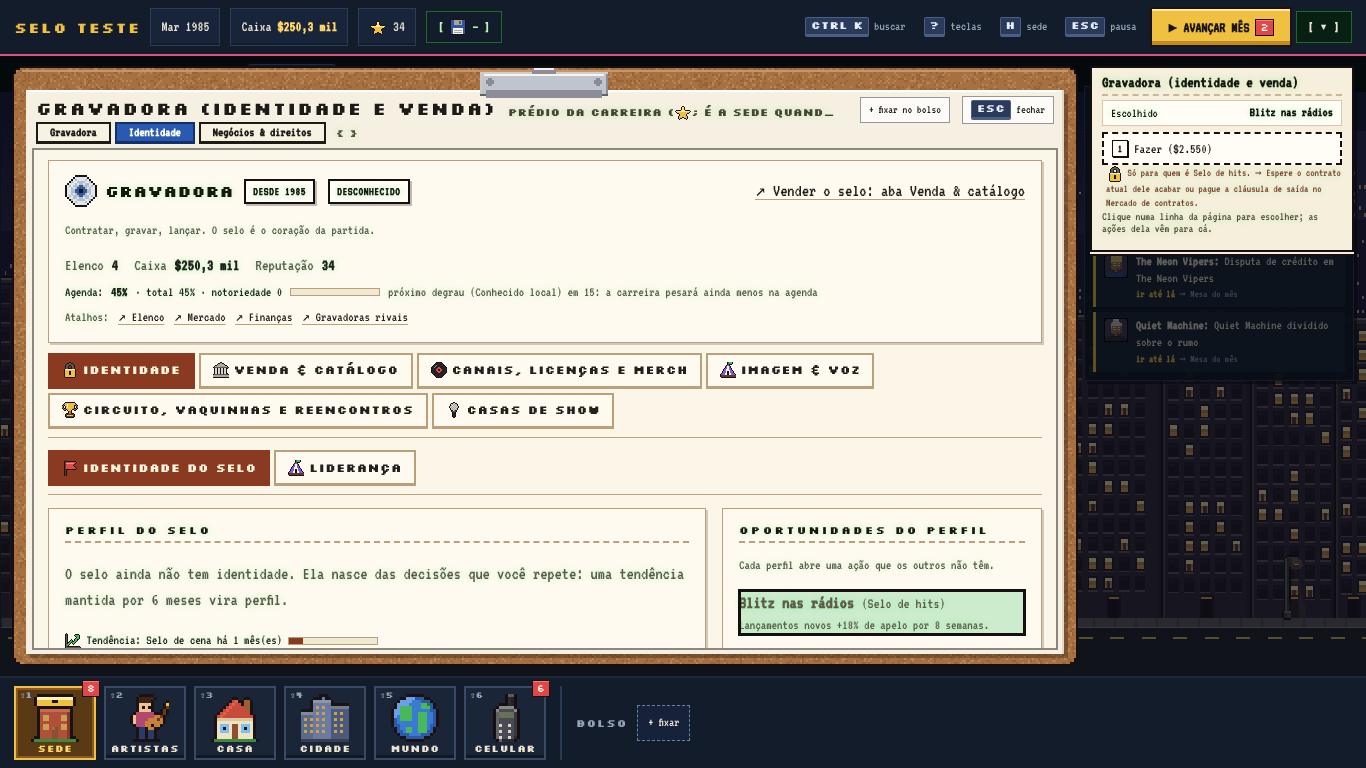
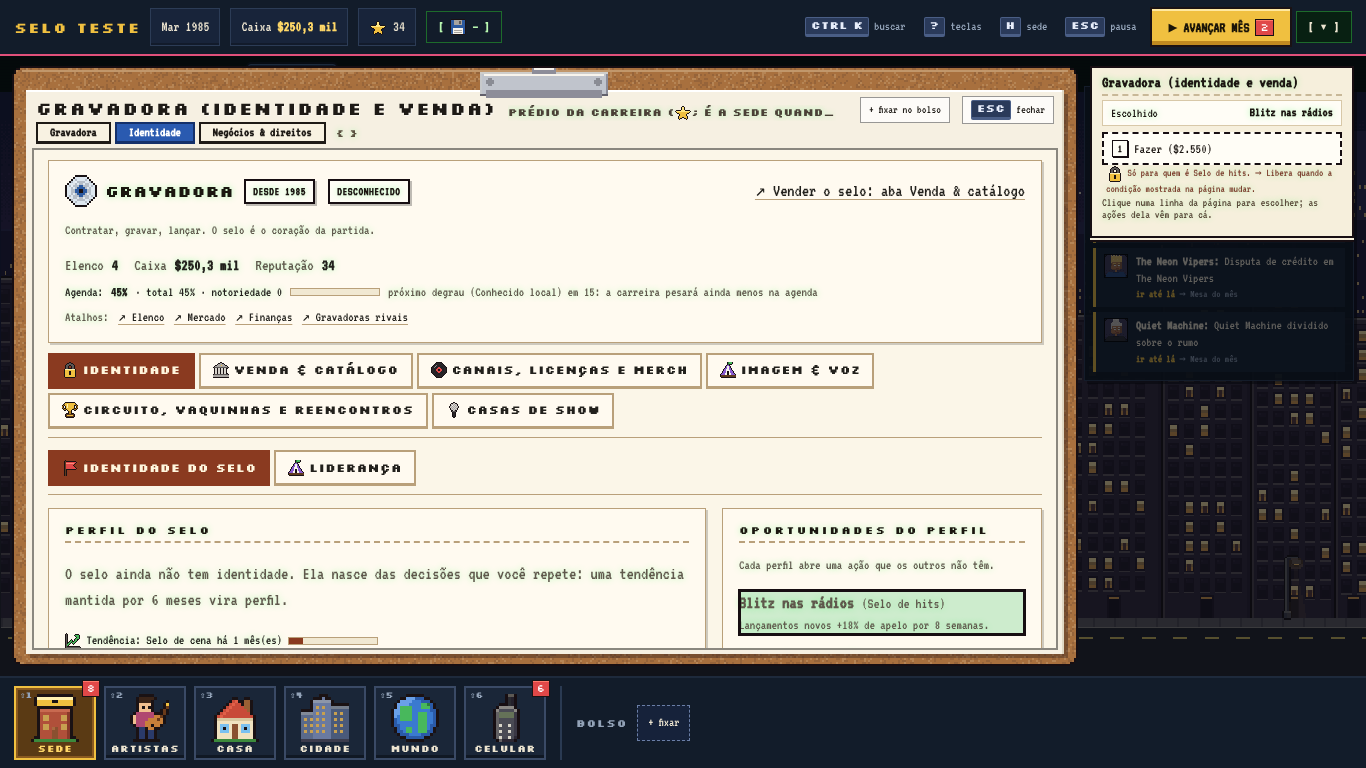
feat(r33 fichas-b): cartão e menus acompanham o tamanho do texto; pausa/teclas sem invadir a doca; registro e prints
Letras do cartão, menus, pausa/teclas, painéis e Arrumar em rem (90–130%); o cartão ao lado do papel alarga na mesma
proporção. Painel do bairro sem estouro a 130% (título quebra, cabeçalho dobra). Pausa/teclas com altura limitada e
papel rolando por dentro. DECISOES.md e INVENTARIO.md atualizados; prints antes/depois em docs/r33/fichas/b
(1366 e 1912, PT e EN, texto 130%).

Claude-Session: https://claude.ai/code/session_018LKm6vzPAhNK7XWzRuSqqE

Changed region(s): [[0.7994, 0.2188, 1.0, 0.3438]]

diff --git a/src/ui/r33/cartao33.css b/src/ui/r33/cartao33.css
@@ -156,3 +156,32 @@ body:has(.app5) :is(.am20-head, .cx27-head)::after { content: 'Esc'; position: a
 .tour18-bub { --panel: #fbf6e8; --ink: #1c1612; --muted: #5f584c; --line: #c8b898; color-scheme: light; background: #fbf6e8 !important; color: #1c1612 !important; border: 2px solid #170e12 !important; border-radius: 0 !important; box-shadow: 4px 4px 0 rgba(0, 0, 0, 0.5) !important; }
 .tour18-bub :is(b, h3, h4, strong):first-child { display: inline-block; align-self: flex-start; padding: 2px 8px; border: 2px solid #170e12; background: #fffdf6; font: 700 12px/1.2 var(--pixel, monospace); letter-spacing: 0.1em; text-transform: uppercase; }
 .tour18-bub .btn { border-radius: 0 !important; border: 2px solid #170e12 !important; box-shadow: 2px 2px 0 rgba(0, 0, 0, 0.4); }
+
+/* ==== tamanho do texto (Opções: 90–130%, no font-size da raiz): o cartão em papel acompanha (rem no lugar de px) ==== */
+.ac5.ac5-in33 { font-size: 0.8125rem; }
+.ac5.ac5-in33 .ac5-h b { font-size: 1rem; }
+.ac5.ac5-in33 .ac5-a { font-size: 0.875rem; }
+.ac5.ac5-in33 .ac5-n { font-size: 0.6875rem; line-height: 1.35; }
+.ac5.ac5-in33 .ac5-t { font-size: 0.75rem; }
+.ac5.ac5-in33 .lk31-why { font-size: 0.6875rem; }
+:is(.ob33-col, .pz5-sheet) .ac5.ac5-in33 .ac5-nums li b { font-size: 0.8125rem; }
+.ac5.ac5-in33 .ac5-nums li span { font-size: 0.75rem; }
+.pz5-sheet .pz5-row { font-size: 0.8125rem; }
+.pz5-sheet .pz5-row small { font-size: 0.6875rem; }
+.pz5-sheet .hk5-body li { font-size: 0.8125rem; }
+body:has(.app5) :is(.am20, .cx27) { font-size: 0.875rem; }
+.deco5 .deco5-card, .deco5 .deco5-side .deco5-it { font-size: 0.8125rem; }
+.deco5 .deco5-hint { font-size: 0.75rem; }
+.app5 .c27-pn, .app5 .in31-pn { font-size: 0.8125rem; }
+.app5 .c27-pn { min-width: 0; }
+.app5 .c27-pn .c27-ph { flex-wrap: wrap; row-gap: 4px; }
+.app5 .c27-pn .c27-ph > div { min-width: 0; flex: 1 1 8em; }
+.app5 .c27-pn .c27-ph b, .app5 .in31-pn > b:first-child { font-size: 0.875rem; letter-spacing: 0.04em; overflow-wrap: anywhere; }
+.app5 .c27-pn .c27-kv dd { min-width: 0; overflow-wrap: anywhere; }
+.app5 .ob33-pcol .ac5.ac5-in33 .ac5-h b { font-size: 0.75rem; }
+.pz5-back > .pz5-sheet { max-height: calc(100vh - 168px); min-height: 0; }
+.pz5-back > .pz5-sheet .pp33-main { min-height: 0; max-height: 100%; overflow: hidden; }
+.pz5-back > .pz5-sheet .pp33-paper { min-height: 0; overflow: hidden; }
+.pz5-back > .pz5-sheet .pp33-main { grid-template-rows: minmax(0, 1fr); }
+.pz5-back > .pz5-sheet .pp33-paper { max-height: 100%; height: 100%; }
+.pz5-back > .pz5-sheet .pp33-cardcol { align-self: start; }

diff --git a/src/ui/r31/shell5.ts b/src/ui/r31/shell5.ts
@@ -20,7 +20,7 @@ import { iconPx, type IconName } from '../pixel/icons';
 import { icon17Px } from '../pixel/icons17';
 import { icon31Px } from '../pixel/icons31';
 import { dockCar5, type DockCar5 } from './dockcar5';
-import { CARD_W33, oldCard33 } from '../r33/cartao33';
+import { cardW33, oldCard33 } from '../r33/cartao33';
 import { card33, type Row33 } from '../r33/paper33';
 import { FS_KEY33, FS_LABEL33, fsAble33, fsOn33, toggleFs33 } from '../r33/tela33';
 import { rgba, type Px } from '../pixel/px';
@@ -459,7 +459,7 @@ function paper5(s: GameState, host: Shell5Host): HTMLElement {
   };
   let content = build();
   let ob = oldCard33(content, `${p.obj}|${p.marker.area}|${p.marker.tab?.join('/') ?? ''}`, title);
-  if (ob) { cw = CARD_W33; if (reg) { content = build(); ob = oldCard33(content, `${p.obj}|${p.marker.area}|${p.marker.tab?.join('/') ?? ''}`, title) ?? ob; } }
+  if (ob) { cw = cardW33(); if (reg) { content = build(); ob = oldCard33(content, `${p.obj}|${p.marker.area}|${p.marker.tab?.join('/') ?? ''}`, title) ?? ob; } }
   const key = o ? key5(`obj:${o.id}`)?.chord ?? (o.keyRef ? key5(o.keyRef)?.chord : undefined) : undefined;
   const sub = [o ? tl5(PLACES5[o.place] ?? l('', '')) : '', key ? `${t(l('tecla', 'key'))} ${chordLabel5(key)}` : '', o ? tl5(FRAME_L5[o.frame]) : ''].filter(Boolean).join(' · ');
   const pinned = o ? pocketIds5(s).includes(o.id) : false;
@@ -474,7 +474,7 @@ function paper5(s: GameState, host: Shell5Host): HTMLElement {
     return h('button', { type: 'button', role: 'tab', class: `p5-tab${on ? ' on' : ''}`, 'aria-selected': on ? 'true' : 'false', onclick: () => show5(m.area, m.tab, o?.id) }, txt5(markLabel5(m, host)));
   }), ms.length > 1 ? h('small', { class: 'p5-tk' }, '{ }') : null);
   const bodyEl = h('div', { class: 'p5-body', tabindex: '-1' }, content);
-  const sheet = h('section', { class: `p5 p5-${kind}${ob ? ' ob33-on' : ''}`, 'data-paper': p.obj, role: 'dialog', 'aria-label': title, style: ob ? `--ob33-w:${CARD_W33}px` : undefined }, cv, head, tabs, bodyEl, ob?.el ?? null);
+  const sheet = h('section', { class: `p5 p5-${kind}${ob ? ' ob33-on' : ''}`, 'data-paper': p.obj, role: 'dialog', 'aria-label': title, style: ob ? `--ob33-w:${cw}px` : undefined }, cv, head, tabs, bodyEl, ob?.el ?? null);
   const put = (el: HTMLElement, r: Rect5, W: number, H: number) => { el.style.left = `${(r.x / W) * 100}%`; el.style.top = `${(r.y / H) * 100}%`; el.style.width = `${(r.w / W) * 100}%`; el.style.height = `${(r.h / H) * 100}%`; };
   let last = '';
   const fit = (cw: number, ch: number): void => {

diff --git a/src/ui/r33/cartao33.ts b/src/ui/r33/cartao33.ts
@@ -11,8 +11,12 @@ import { h } from '../dom';
 import { card33, rowOfBtn33, txt33, type Row33 } from './paper33';
 import './cartao33.css';
 
-/** Largura que o cartão ocupa ao lado do papel (px de tela; a casca tira do papel). */
+/** Largura que o cartão ocupa ao lado do papel (px de tela; a casca tira do papel), com o "tamanho do texto". */
 export const CARD_W33 = 276;
+export function cardW33(): number {
+  const fs = typeof document !== 'undefined' ? parseFloat(getComputedStyle(document.documentElement).fontSize) || 16 : 16;
+  return Math.round(CARD_W33 * Math.max(1, fs / 16));
+}
 
 /** Onde um botão NÃO é ação (leitura/seleção): abas, marcadores, cabeçalho de tabela, controles de mapa, o próprio cartão. */
 const SKIP33 = '.tabs, .cats17, [role=tablist], [role=toolbar], th, summary, .wmap-ctl, .w19-ctl, .ac5, .p5-tabs, [data-keep33], .lk31-why, [hidden], .ob33-col, .el5-tabs, .help18-index';

diff --git a/docs/r31/DECISOES.md b/docs/r31/DECISOES.md
@@ -731,3 +731,31 @@ proibido sem pedido do dono.
   (RCA Victor, Columbia, K-tel, "Victor Talking Machine Co." — nome extinto em 1929 —, Gramophone Company of India,
   ou independente/aposentado); Elvis Presley aparece "separado" em 1985/1995 e "aposentado" em 2022 (morreu em 1977);
   o ato Elvis Presley tem 4 integrantes (com Scotty Moore). Prints antes/depois em `docs/r33/fichas/`.
+## R33 · FICHAS33-B — o que faltou do padrão de papel ("ajuste isso", 17/10)
+- **Páginas antigas dentro do papel (`src/ui/r33/cartao33.ts`, ligado em `paper5` da casca).** Os botões de ação
+  (`button.btn`) de `.p5-old` e dos papéis do elenco com miolo antigo (agenda, chefe de gabinete…) saem da página e vão
+  para o CARTÃO DE AÇÕES numerado (o mesmo `.ac5`/`card33`/`lockBtn31`), na mesa à direita do papel; o papel encolhe
+  (miolo registrado é refeito com a largura nova, para as páginas desenhadas em retângulos). A linha clica o MESMO
+  botão; travado mostra o motivo do botão (`lk31` ou `title`) e "→ Libera quando…"; sem motivo no botão: "Libera
+  quando a condição mostrada na página mudar". Ficam na página: abas (marcadores), filtros (fileira com um aceso, ou
+  `aria-pressed`), nomes (links), campos, controles de mapa e "ir para… →/↗" (navegação, como os links).
+- **Linhas viram seleção.** Botão que se repete por linha (tabela, lista, fileira de cartões: tr/li ou 3+ irmãos com
+  ação) não vai como N linhas soltas: a linha da página fica selecionável (contorno; escolhida em amarelo; Enter/Espaço
+  pelo teclado) e o cartão mostra "Escolhido: <nome>" + as ações dela; o resto vem abaixo, em "Na página". A escolha
+  sobrevive ao redesenho (por página e nome). Teclas 1–9 no papel aberto (captura antes dos atalhos de objeto).
+- **Pausa e teclas** (shell5): papel com plaqueta. Pausa = índice no papel (consulta) + menu no cartão (1–9).
+  Teclas = marcadores Nesta tela / Todos os objetos / O que mudou (`[ ]`), linha escolhida + "Trocar a tecla" /
+  "Voltar todas ao padrão" no cartão (trava com motivo para tecla fixa).
+- **Painéis do lugar** (por observação do DOM, sem tocar nas telas — os interiores são da POL33-A): painel do bairro
+  (`.c27-pn`, e a folha `.c27-sheet` do celular) e do interior (`.in31-pn`) com plaqueta em pixel, × → "Esc fechar",
+  ações na lista numerada do pé (aqui "ir/entrar" conta como ação); painel do interior em papel. Cartão da cidade no
+  mapa (`m5-ccard`): "Ir para a cidade" é a linha 1.
+- **Menus de ações** (`am20`, `cx27`) na casca: cartão em papel, plaqueta, linhas numeradas tracejadas, "→" no motivo
+  da trava, Esc na plaqueta; 1–9 escolhem. **navsheet27** (celular, casca antiga): papel, plaqueta, abas → marcadores.
+  **Celular/computador**: só a barra de fora (plaqueta + "Esc fechar"); a tela do aparelho segue com a arte dele.
+  **Arrumar** (`deco5`): mesa de madeira, plaqueta, abas → marcadores, lateral em papel com as peças numeradas (1–9).
+  **Tutorial**: escolha da época numerada (1–5) e legível (antes: texto escuro sobre azul-marinho); balão do tour em papel.
+- **Tamanho do texto:** letras do cartão e dos menus em `rem` (acompanham 90–130%); o cartão alarga na mesma proporção.
+  Conferido em 1912×867 e 1366×768, PT e EN, 130%: nada estoura (prints em `docs/r33/fichas/b/`).
+- **Não mudou:** simulação (goldens r27-p2a/p2b/m3, r16-playbot iguais). Mural de cortiça segue como está (clique =
+  ficha; o menu de ações de botão direito agora é o cartão numerado); o mentor do tutorial guiado já é papel do jogo.

diff --git a/docs/r33/fichas/INVENTARIO.md b/docs/r33/fichas/INVENTARIO.md
@@ -126,3 +126,13 @@ after18, agenda17, airport31, auction31, awards, bauc31, biz17, cal17, calendar1
 
 ## Prioridade sugerida
 1. Fichas (artista, pessoa, disco, selo). 2. Janelas de jogo do dia a dia: negociar, estúdio, composição, turnê, show, crise, diretoria, campanha, favores, antes de avançar/virar o mês, ações rápidas. 3. Casa/cidade (casa5, city31ui, lots31ui, decoshop31ui, socio31ui, leilões). 4. Páginas antigas mais abertas: talento/olheiros, contratos, mercado, regiões e política, notícias, indústria, finanças. 5. Utilitários (saves, opções, atalhos, glossário, créditos) por último.
+
+## FICHAS33-B (17/10)
+Migrado: botões de ação das páginas antigas dentro do papel → cartão numerado (todas as 68 áreas acima, por colheita;
+linhas com ação viram seleção); papéis do elenco com miolo antigo (agenda, chefe); pausa e teclas; painéis da cidade
+(`c27-pn`/`c27-sheet`), interiores (`in31-pn`) e cartão da cidade (`m5-ccard`); menus `am20`/`cx27`; `navsheet27`;
+barra de fora do celular/computador; Arrumar (`deco5`); escolha da época do tutorial e balão do tour. Varredura:
+`node scripts/r33/fb-sweep.mjs` (linhas no cartão, linhas de seleção e `.btn` à vista por área). Prints em `b/`.
+Ainda fora: as ~110 janelas `modal(` já estão no papel desde FICHAS33; a cena do Mural segue sem cartão próprio (ações
+pelo menu numerado); o balão do mentor do tutorial guiado (já é papel do jogo) não ganhou números (as teclas 1–9 são
+dos passos do tutorial).
